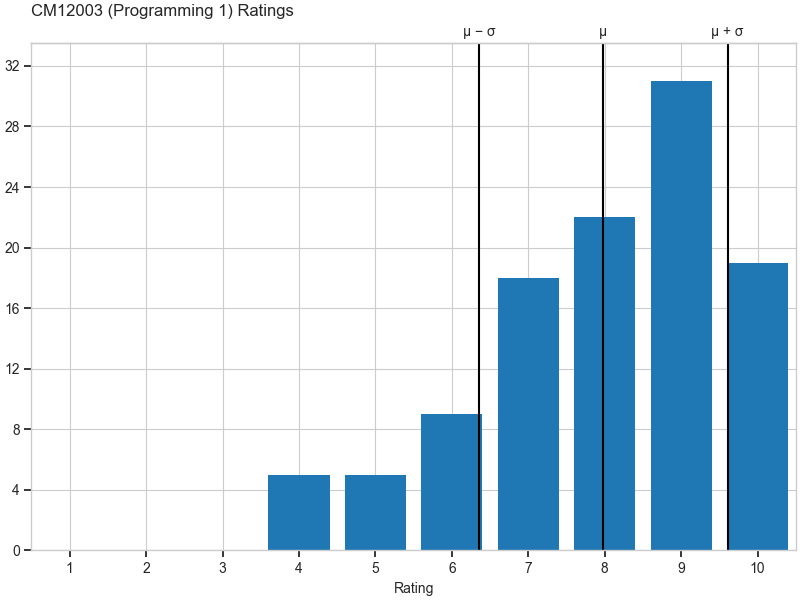
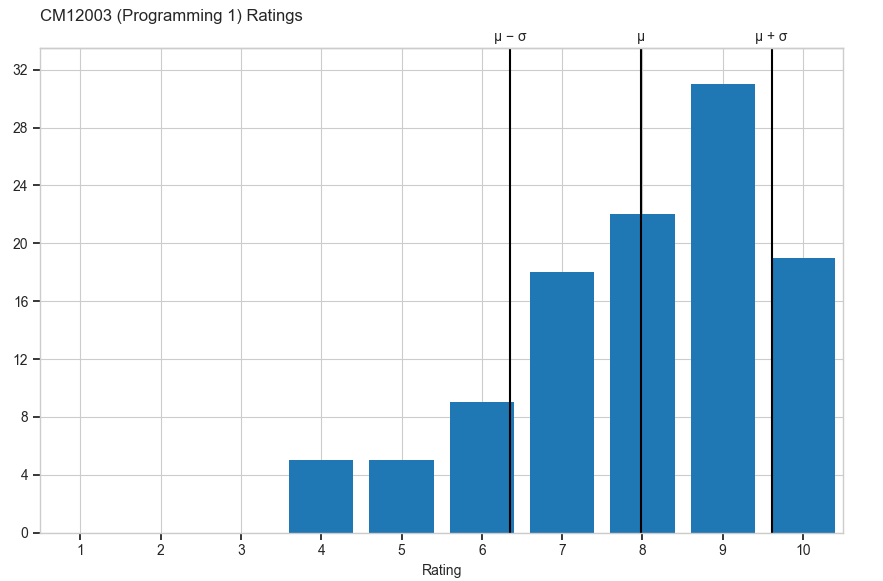
All graphs together

diff --git a/main.py b/main.py
@@ -9,8 +9,19 @@ plt.style.use("seaborn-v0_8-whitegrid")
 plt.grid(linewidth=0.8, color="darkgrey")
 plt.grid(linewidth=0.4, color="gainsboro", which="minor")
 
+all_plots, axes = plt.subplots(5, 2, figsize=(21, 29.7))
+axes = axes.flatten()
+axes[-1].set_axis_off()
+
+all_plots.tight_layout(pad=5.0)
+plt.subplots_adjust(wspace=0.4, hspace=0.2)
+
+fig_num = 0
+
 
 def get_data(course_name, df):
+    global fig_num
+
     course_df = df[df[course_name].notnull()]
 
     if course_df.shape[0] == 0:
@@ -19,7 +30,7 @@ def get_data(course_name, df):
     course_mean = course_df[course_name].mean()
     course_stdev = course_df[course_name].std()
 
-    fig, ax = plt.subplots(figsize=(8, 6), layout="constrained")
+    ax = axes[fig_num]
 
     ax.tick_params(which="major", length=5, width=1.3)
 
@@ -43,8 +54,11 @@ def get_data(course_name, df):
     ax2.set_xticks([course_mean, course_mean - course_stdev, course_mean + course_stdev])
     ax2.set_xticklabels(["\u03BC", "\u03BC \u2212 \u03c3", "\u03BC \u002B \u03c3"])
 
+    extent = ax.get_window_extent().transformed(all_plots.dpi_scale_trans.inverted())
     with open(f"Graphs/{course_name.replace('/', ',')}.png", "wb") as file:
-        plt.savefig(file)
+        plt.savefig(file, bbox_inches=extent.expanded(1.1, 1.2))
+
+    fig_num += 1
 
     mean_bounds = norm.interval(0.9, loc=course_mean, scale=(course_stdev/np.sqrt(course_df.shape[0])))
 
@@ -155,7 +169,8 @@ too_slow_bounds_list = np.array(too_slow_bounds_list).transpose() * 100
 too_fasts = np.array(too_fasts) * 100
 too_fast_bounds_list = np.array(too_fast_bounds_list).transpose() * 100
 
-fig, ax = plt.subplots(figsize=(8, 6), layout="constrained")
+ax = axes[fig_num]
+fig_num += 1
 
 ax.tick_params(which="major", length=5, width=1.3)
 
@@ -171,10 +186,12 @@ ax.bar(short_course_names, means, yerr=np.abs(mean_bounds_list - means))
 
 ax.tick_params(axis='x', labelrotation=0, size=2)
 
+extent = ax.get_window_extent().transformed(all_plots.dpi_scale_trans.inverted())
 with open(f"Graphs/all scores.png", "wb") as file:
-    plt.savefig(file)
+    plt.savefig(file, bbox_inches=extent.expanded(1.12, 1.2))
 
-fig, ax = plt.subplots(figsize=(8, 6), layout="constrained")
+ax = axes[fig_num]
+fig_num += 1
 
 ax.tick_params(which="major", length=5, width=1.3)
 
@@ -198,5 +215,9 @@ ax.legend(loc="upper right", frameon=True)
 
 ax.yaxis.set_major_formatter(tck.PercentFormatter())
 
+extent = ax.get_window_extent().transformed(all_plots.dpi_scale_trans.inverted())
 with open(f"Graphs/speeds.png", "wb") as file:
-    plt.savefig(file)
+    plt.savefig(file, bbox_inches=extent.expanded(1.12, 1.2))
+
+with open(f"graphs.pdf", "wb") as file:
+    plt.savefig(file, format="pdf")
